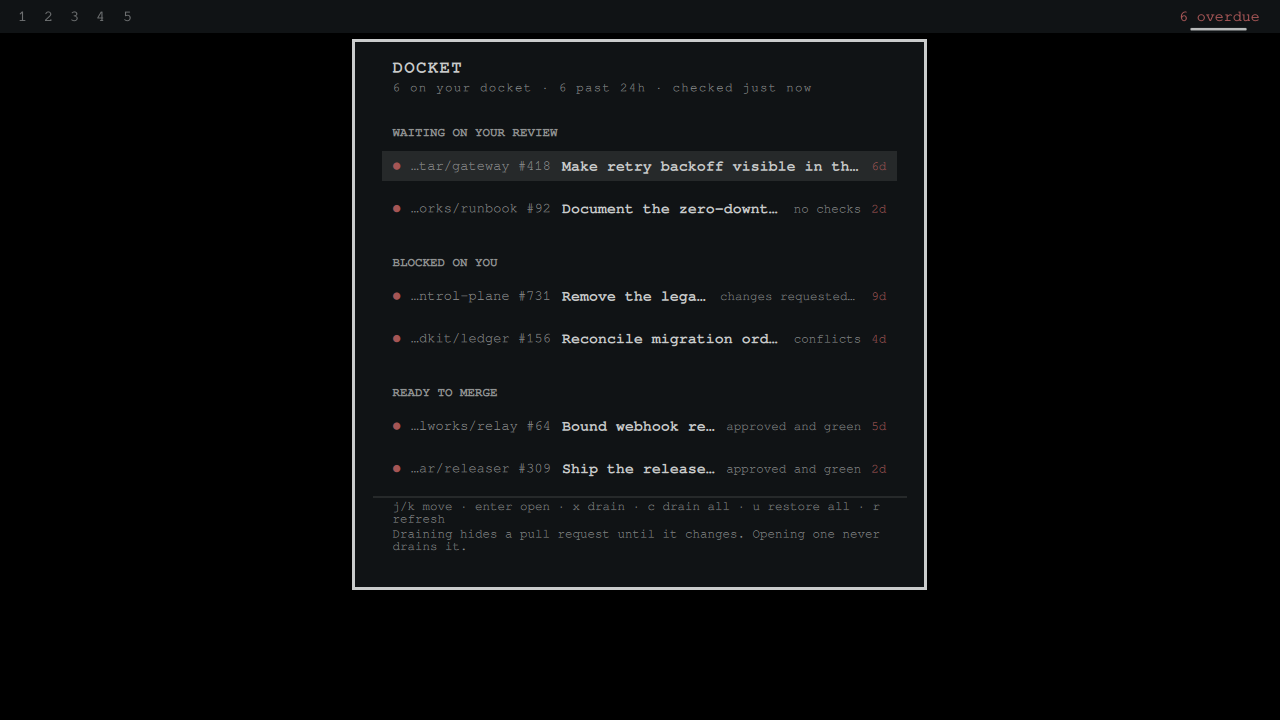
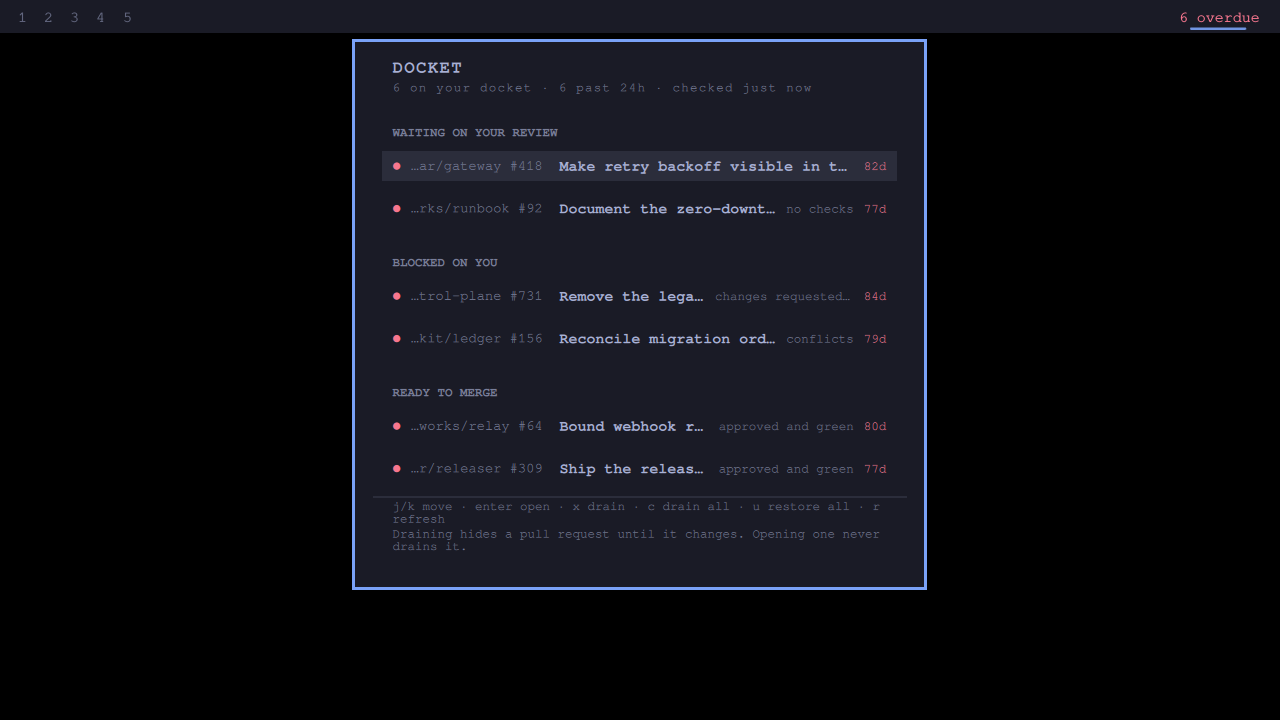
fix(theme): qualify the palette as Commons.Color for Qt 6.12; fold in Dependabot (#14)
* fix(theme): qualify the palette as Commons.Color for Qt 6.12; fold in Dependabot

Omarchy's shell contract (omacom/omarchy docs/omarchy-shell.md, Theme tokens)
now requires plugin QML to import qs.Commons with an alias and use
Commons.Color, because Qt 6.12 introduces its own Color type: "Existing
third-party plugins that use bare Color must make the same change." Arch now
ships Qt 6.12.0. Panel.qml used bare Color in 18 fallback colours; they now use Commons.Color. BarWidget.qml and Service.qml had none. A contract test fails on any bare `Color.` in the
shipped QML and requires the alias wherever Commons.Color appears.

scripts/rig-render.sh now seeds the current-theme state a real Omarchy
install has (current/theme, theme.name, background, the entries
omarchy-theme-set writes), copied from crew-chief ba0fa5b. On the upgraded
rig (Omarchy 74de104) first-party image-picker and lock read that state and
log QML warnings without it, which the render correctly refuses to certify.
Chose seeding real install state over narrowing the warning filter, because
a plugin can cause a warning inside a first-party component it uses.

Folds in the open Dependabot bumps, which failed CI only on the audit-harness
hash pin: actions/setup-node 7.0.0 -> 7.1.0 (#11); jeremylongshore/minimax-code-review to cfb2c72 (#12). The MiniMax target cfb2c72 is identical to the fork's main
per the compare API. Harness re-pinned after verify listed only
[…]

diff --git a/Panel.qml b/Panel.qml
@@ -2,6 +2,9 @@ import QtQuick
 import Quickshell
 import Quickshell.Io
 import qs.Commons
+// Qt 6.12 adds its own Color type, so Omarchy's palette singleton must be
+// qualified (docs/omarchy-shell.md, Theme tokens).
+import qs.Commons as Commons
 import qs.Ui
 import "Model.js" as Model
 
@@ -386,7 +389,7 @@ Panel {
               Text {
                 text: "DOCKET"
                 textFormat: Text.PlainText
-                color: root.bar ? root.bar.foreground : Color.foreground
+                color: root.bar ? root.bar.foreground : Commons.Color.foreground
                 font.family: root.bar ? root.bar.fontFamily : Style.font.family
                 font.pixelSize: Style.font.title
                 font.bold: true
@@ -422,7 +425,7 @@ Panel {
                 // it wrap.
                 width: heroCol.width
                 wrapMode: Text.WordWrap
-                color: root.bar ? Qt.darker(root.bar.foreground, 1.4) : Color.muted
+                color: root.bar ? Qt.darker(root.bar.foreground, 1.4) : Commons.Color.muted
                 font.family: root.bar ? root.bar.fontFamily : Style.font.family
                 font.pixelSize: Style.font.caption
                 font.letterSpacing: 1
@@ -438,7 +441,7 @@ Panel {
             width: parent.width
             spacing: Style.space(4)
 
-            PanelSeparator { foreground: root.bar ? root.bar.foreground : Color.foreground }
+            PanelSeparator { foreground: root.bar ? root.bar.foreground : Commons.Color.foreground }
 
             Text {
               anchors.left: parent.left
@@ -451,7 +454,7 @@ Panel {
               text: "gh auth token | ~/.config/omarchy/plugins/"
                 + "io.github.jeremylongshore.docket/bin/docket-login"
               textFormat: Text.PlainText
-              color: root.bar ? root.bar.foreground : Color.foreground
+              color: root.bar ? root.bar.foreground : Commons.Color.foreground
               font.family: root.bar ? root.bar.fontFamily : Style.font.family
               font.pixelSize: Style.font.body
               font.bold: true
@@ -467,7 +470,7 @@ Panel {
                 + "public_repo works too and shows public pull requests only. GitHub cannot "
                 + "resolve who you are without a token, so there is no unauthenticated mode."
               textFormat: Text.PlainText
-              color: root.bar ? Qt.darker(root.bar.foreground, 1.35) : Color.muted
+              color: root.bar ? Qt.darker(root.bar.foreground, 1.35) : Commons.Color.muted
               font.family: root.bar ? root.bar.fontFamily : Style.font.family
               font.pixelSize: Style.font.caption
             }
@@ -495,7 +498,7 @@ Panel {
                 anchors.bottom: parent.bottom
                 text: rowItem.isHeader ? rowItem.modelData.text : ""
                 leftPadding: Style.space(16)
-                foreground: root.bar ? root.bar.foreground : Color.foreground
+                foreground: root.bar ? root.bar.foreground : Commons.Color.foreground
                 fontFamily: root.bar ? root.bar.fontFamily : Style.font.family
               }
 
@@ -505,7 +508,7 @@ Panel {
                 anchors.leftMargin: Style.space(8)
                 anchors.rightMargin: Style.space(8)
                 radius: Style.cornerRadius
-                color: root.bar ? root.bar.foreground : Color.foreground
+                color: root.bar ? root.bar.foreground : Commons.Color.foreground
                 opacity: 0.12
               }
 
@@ -518,7 +521,7 @@ Panel {
                 elide: Text.ElideRight
                 text: rowItem.isMore ? rowItem.modelData.text : ""
                 textFormat: Text.PlainText
-                color: root.bar ? Qt.darker(root.bar.foreground, 1.45) : Color.muted
+                color: root.bar ? Qt.darker(root.bar.foreground, 1.45) : Commons.Color.muted
                 font.family: root.bar ? root.bar.fontFamily : Style.font.family
                 font.pixelSize: Style.font.caption
               }
@@ -558,7 +561,7 @@ Panel {
                   text: "●"
                   textFormat: Text.PlainText
                   anchors.verticalCenter: parent.verticalCenter
-                  color: root.bar ? root.bar.urgent : Color.urgent
+                  color: root.bar ? root.bar.urgent : Commons.Color.urgent
                   font.family: root.bar ? root.bar.fontFamily : Style.font.family
                   font.pixelSize: Style.font.bodySmall
                 }
@@ -586,7 +589,7 @@ Panel {
                   elide: Text.ElideLeft
                   maximumLineCount: 1
                   width: Math.min(implicitWidth, Math.round(rowLine.width * 0.30))
-                  color: root.bar ? Qt.darker(root.bar.foreground, 1.35) : Color.muted
+                  color: root.bar ? Qt.darker(root.bar.foreground, 1.35) : Commons.Color.muted
                   font.family: root.bar ? root.bar.fontFamily : Style.font.family
                   font.pixelSize: Style.font.bodySmall
                 }
@@ -606,7 +609,7 @@ Panel {
                   text: rowItem.isInert ? "" : rowItem.modelData.title
                   textFormat: Text.PlainText
                   anchors.verticalCenter: parent.verticalCenter
-                  color: root.bar ? root.bar.foreground : Color.foreground
+                  color: root.bar ? root.bar.foreground : Commons.Color.foreground
                   font.family: root.bar ? root.bar.fontFamily : Style.font.family
                   font.pixelSize: Style.font.body
                   font.bold: rowItem.modelData.overdue === true
@@ -634,7 +637,7 @@ Panel {
                   elide: Text.ElideRight
                   maximumLineCount: 1
                   width: Math.min(implicitWidth, Math.round(rowLine.width * 0.30))
-                  color: root.bar ? Qt.darker(root.bar.foreground, 1.45) : Color.muted
+                  color: root.bar ? Qt.darker(root.bar.foreground, 1.45) : Commons.Color.muted
                   font.family: root.bar ? root.bar.fontFamily : Style.font.family
                   font.pixelSize: Style.font.caption
                 }
@@ -651,8 +654,8 @@ Panel {
                 text: rowItem.isInert ? "" : Model.ageText(rowItem.modelData.updatedMs, root.nowMs)
                 textFormat: Text.PlainText
                 color: rowItem.modelData.overdue === true
-                  ? (root.bar ? root.bar.urgent : Color.urgent)
-                  : (root.bar ? Qt.darker(root.bar.foreground, 1.45) : Color.muted)
+                  ? (root.bar ? root.bar.urgent : Commons.Color.urgent)
+                  : (root.bar ? Qt.darker(root.bar.foreground, 1.45) : Commons.Color.muted)
                 font.family: root.bar ? root.bar.fontFamily : Style.font.family
                 font.pixelSize: Style.font.caption
               }
@@ -671,7 +674,7 @@ Panel {
               ? "Docket clear. " + root.drainedCount + " drained; press u to bring them back."
               : "Docket clear. Nothing is waiting on you."
             textFormat: Text.PlainText
-            color: root.bar ? Qt.darker(root.bar.foreground, 1.35) : Color.muted
+            color: root.bar ? Qt.darker(root.bar.foreground, 1.35) : Commons.Color.muted
             font.family: root.bar ? root.bar.fontFamily : Style.font.family
             font.pixelSize: Style.font.body
           }
@@ -681,7 +684,7 @@ Panel {
             width: parent.width
             spacing: Style.space(2)
 
-            PanelSeparator { foreground: root.bar ? root.bar.foreground : Color.foreground }
+            PanelSeparator { foreground: root.bar ? root.bar.foreground : Commons.Color.foreground }
 
             Text {
               anchors.left: parent.left
@@ -692,7 +695,7 @@ Panel {
               // ever made, and "undo" in a list UI means "undo my last action".
               text: "j/k move · enter open · x drain · c drain all · u restore all · r refresh"
               textFormat: Text.PlainText
-              color: root.bar ? Qt.darker(root.bar.foreground, 1.45) : Color.muted
+              color: root.bar ? Qt.darker(root.bar.foreground, 1.45) : Commons.Color.muted
               font.family: root.bar ? root.bar.fontFamily : Style.font.family
               font.pixelSize: Style.font.caption
             }
@@ -704,7 +707,7 @@ Panel {
               wrapMode: Text.WordWrap
               text: "Draining hides a pull request until it changes. Opening one never drains it."
               textFormat: Text.PlainText
-              color: root.bar ? Qt.darker(root.bar.foreground, 1.45) : Color.muted
+              color: root.bar ? Qt.darker(root.bar.foreground, 1.45) : Commons.Color.muted
               font.family: root.bar ? root.bar.fontFamily : Style.font.family
               font.pixelSize: Style.font.caption
             }

diff --git a/tests/contract.test.js b/tests/contract.test.js
@@ -75,3 +75,15 @@ test("canonical freshness hashes byte-exact downloads", () => {
   assert.match(freshness, /sha256sum "\$canonical"/)
   assert.doesNotMatch(freshness, /\bcurl\b|\bwget\b/)
 })
+
+test("QML qualifies Omarchy's palette as Commons.Color, never bare Color", () => {
+  // Qt 6.12 introduces its own Color type; omarchy docs/omarchy-shell.md
+  // (Theme tokens) requires plugins to import qs.Commons with an alias.
+  const files = fs.readdirSync(root).filter(name => name.endsWith(".qml"))
+  assert.ok(files.length > 0)
+  for (const file of files) {
+    const source = fs.readFileSync(path.join(root, file), "utf8")
+    assert.doesNotMatch(source, /(^|[^\w.])Color\./m, file + " uses bare Color")
+    if (/Commons\.Color\./.test(source)) assert.match(source, /^import qs\.Commons as Commons$/m, file)
+  }
+})

diff --git a/CHANGELOG.md b/CHANGELOG.md
@@ -12,6 +12,22 @@ Regenerate with `scripts/gen-changelog.sh`.
 
 Nothing yet.
 
+## [1.1.1] - 2026-11-15
+
+### Fixed
+
+- Qualify Omarchy's palette as `Commons.Color`, as the shell contract requires
+  now that Qt 6.12 has its own `Color` type. A contract test fails on any bare
+  `Color.` in the shipped QML.
+
+### Changed
+
+- Seed the rig render's isolated home with the current-theme state a real
+  Omarchy install has, so first-party shell plugins on current Omarchy do not
+  log warnings the render would read as plugin warnings.
+- Bump `actions/setup-node` to 7.1.0 and the MiniMax review action to the
+  fork's current main (`cfb2c72`), with the audit harness re-pinned.
+
 ## [1.1.0] - 2026-08-29
 
 ### Security
